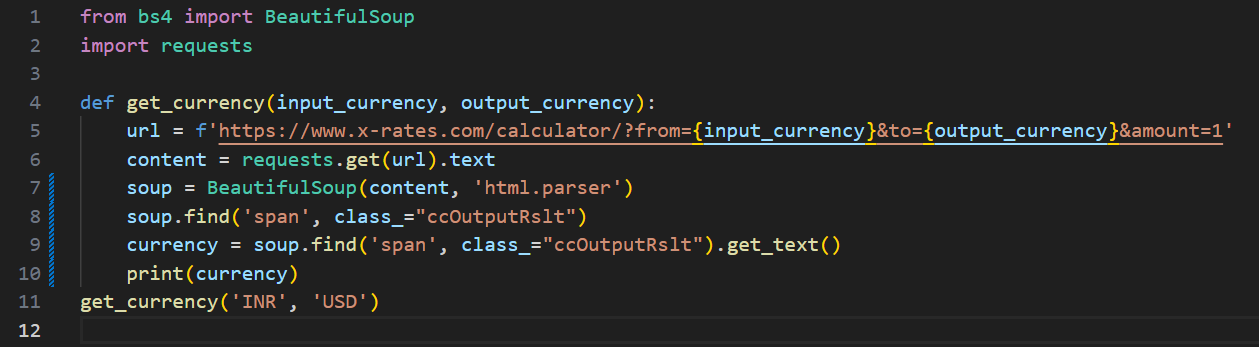
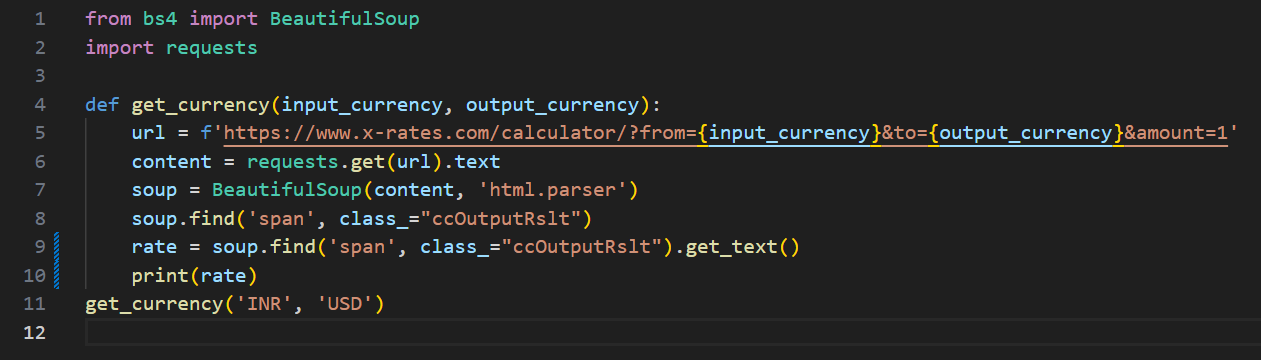
updated script

diff --git a/02.Website-Login-Automation/scrappingwithsenandBS.py b/02.Website-Login-Automation/scrappingwithsenandBS.py
@@ -6,6 +6,6 @@ def get_currency(input_currency, output_currency):
     content = requests.get(url).text
     soup = BeautifulSoup(content, 'html.parser')
     soup.find('span', class_="ccOutputRslt")
-    currency = soup.find('span', class_="ccOutputRslt").get_text()
-    print(currency)
+    rate = soup.find('span', class_="ccOutputRslt").get_text()
+    print(rate)
 get_currency('INR', 'USD')
